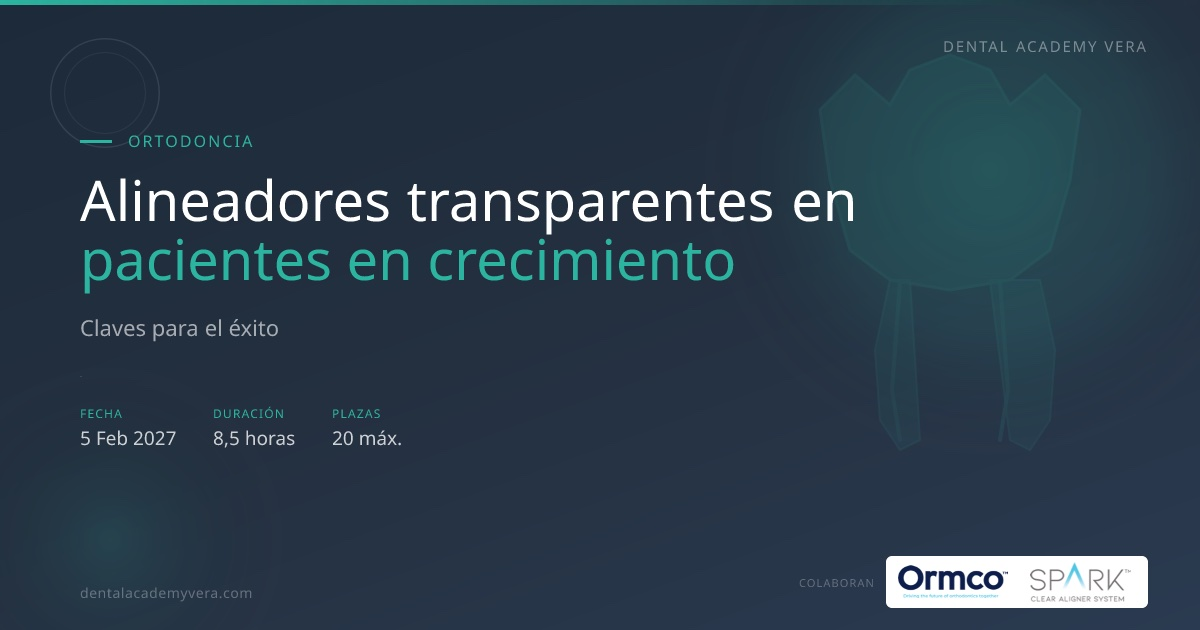
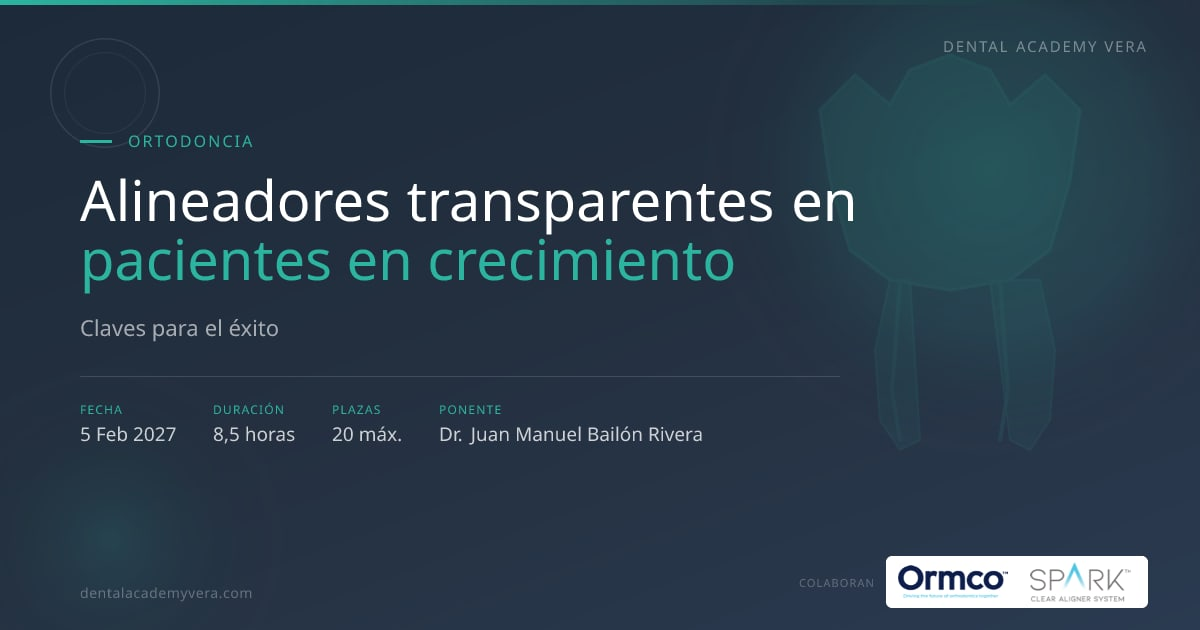
SEO review and share image fixes
- Single source for the canonical site URL (lib/site.ts); robots.txt
  now points to the www sitemap and never to Vercel deployment URLs.
- pageMetadata() helper so every page keeps og:image, site name,
  locale and its own Twitter title/description (/cursos and
  /profesores were missing them).
- Shorter, generated meta descriptions (<160 chars) for home and
  courses; drop "online" claim from home metadata.
- Course JSON-LD: image, inLanguage, endDate and courseWorkload.
- OG template: fix stray divider dot, "PRÁCTICA" accent, add speaker.
- New `npm run og` script to regenerate static JPG share images
  (<300 KB for WhatsApp); both course images regenerated.

diff --git a/app/cursos/[id]/page.tsx b/app/cursos/[id]/page.tsx
@@ -6,16 +6,48 @@ import {
   CalendarDays, Clock, MapPin, Users, MessageCircle, Phone,
   GraduationCap, ChevronRight, Check, Timer,
 } from 'lucide-react'
-import { courses, formatPrice, isPastCourse, getNextCourse } from '@/lib/data/courses'
-import type { Collaborator } from '@/types'
+import { courses, formatPrice, isPastCourse, getNextCourse, formatLongDate } from '@/lib/data/courses'
+import type { Collaborator, Course } from '@/types'
 import { professors } from '@/lib/data/professors'
 import { CONTACT, whatsappCourse } from '@/lib/contact'
 import Nav from '@/components/Nav'
 import Footer from '@/components/Footer'
 
-const SITE_URL =
-  process.env.NEXT_PUBLIC_SITE_URL ??
-  (process.env.VERCEL_URL ? `https://${process.env.VERCEL_URL}` : 'https://www.dentalacademyvera.com')
+import { SITE_URL, SITE_NAME, pageMetadata } from '@/lib/site'
+
+/** Recorta en la última palabra completa antes de `max` caracteres. */
+function clip(text: string, max = 158) {
+  if (text.length <= max) return text
+  return text.slice(0, text.lastIndexOf(' ', max - 1)).replace(/[,;:.]$/, '') + '…'
+}
+
+function courseDescription(course: Course) {
+  const professor = professors.find((p) => p.id === course.professorId)
+  const cat = course.categoryLabel.toLowerCase()
+  const when = isPastCourse(course)
+    ? `Edición celebrada del curso de ${cat} el ${formatLongDate(course)}`
+    : `Curso presencial de ${cat} el ${formatLongDate(course)}`
+  const who = professor ? ` con el ${professor.name}` : ''
+  const lead = `${when} en Vera (Almería)${who}.`
+  // Añade la frase extra más informativa que quepa entera; nunca a medias
+  const candidates = [
+    course.summary?.split(/(?<=[.?!])\s/)[0],
+    course.subtitle && `${course.subtitle}.`,
+  ].filter(Boolean) as string[]
+  const extra = candidates.find((c) => lead.length + 1 + c.length <= 158)
+  return clip(extra ? `${lead} ${extra}` : lead)
+}
+
+function isoWorkload(duration: string) {
+  const h = parseFloat(duration.replace(',', '.'))
+  if (!Number.isFinite(h)) return undefined
+  const mins = Math.round((h % 1) * 60)
+  return `PT${Math.floor(h)}H${mins ? `${mins}M` : ''}`
+}
+
+function courseOgImage(course: Course) {
+  return course.ogImage ?? `/cursos/${course.id}/opengraph-image`
+}
 
 type Props = { params: Promise<{ id: string }> }
 
@@ -30,32 +62,13 @@ export async function generateMetadata({ params }: Props): Promise<Metadata> {
   const course = courses.find((c) => c.id === id)
   if (!course) return {}
 
-  const professor = professors.find((p) => p.id === course.professorId)
-  const title = course.title
-  const description =
-    `Curso de ${course.categoryLabel} en ${course.location} (Vera, Almería). ${course.date}.` +
-    (professor ? ` Impartido por ${professor.name}.` : '') +
-    (course.summary ? ` ${course.summary.split('. ')[0]}.` : course.subtitle ? ` ${course.subtitle}.` : '')
-  const pageUrl = `${SITE_URL}/cursos/${id}`
-
-  return {
-    title,
-    description,
-    alternates: { canonical: pageUrl },
-    openGraph: {
-      title,
-      description,
-      url: pageUrl,
-      type: 'website',
-      images: [{ url: `${SITE_URL}${course.ogImage ?? `/cursos/${id}/opengraph-image`}`, width: 1200, height: 630, alt: `${title} — Dental Academy Vera` }],
-    },
-    twitter: {
-      card: 'summary_large_image',
-      title,
-      description,
-      images: [`${SITE_URL}${course.ogImage ?? `/cursos/${id}/opengraph-image`}`],
-    },
-  }
+  return pageMetadata({
+    title: course.title,
+    socialTitle: course.subtitle ? `${course.title}: ${course.subtitle.toLowerCase()}` : course.title,
+    description: courseDescription(course),
+    path: `/cursos/${id}`,
+    image: { url: courseOgImage(course), width: 1200, height: 630, alt: `${course.title} — ${SITE_NAME}` },
+  })
 }
 
 // ── Page ──────────────────────────────────────────────────────────────────────
@@ -82,11 +95,13 @@ export default async function CoursePage({ params }: Props) {
       course.subtitle ??
       `Curso de ${course.categoryLabel} en ${course.location}. ${course.date}. Formación presencial impartida por referentes del sector.`,
     url: courseUrl,
+    image: `${SITE_URL}${courseOgImage(course)}`,
+    inLanguage: 'es',
     educationalLevel: 'Professional',
     teaches: course.program?.flatMap((m) => m.topics) ?? course.objectives ?? [],
     provider: {
       '@type': 'EducationalOrganization',
-      name: 'Dental Academy Vera',
+      name: SITE_NAME,
       url: SITE_URL,
     },
     ...(course.price != null && !past && {
@@ -106,6 +121,9 @@ export default async function CoursePage({ params }: Props) {
       '@type': 'CourseInstance',
       courseMode: course.modality === 'online' ? 'online' : 'onsite',
       startDate: course.dateISO,
+      endDate: course.dateISO,
+      // Google exige courseWorkload (o courseSchedule) en CourseInstance: "8,5 horas" → PT8H30M
+      ...(isoWorkload(course.duration) && { courseWorkload: isoWorkload(course.duration) }),
       location: {
         '@type': 'Place',
         name: course.location,

diff --git a/app/cursos/[id]/opengraph-image.tsx b/app/cursos/[id]/opengraph-image.tsx
@@ -1,5 +1,6 @@
 import { ImageResponse } from 'next/og'
 import { courses, splitTitle } from '@/lib/data/courses'
+import { professors } from '@/lib/data/professors'
 
 export const runtime = 'edge'
 export const size = { width: 1200, height: 630 }
@@ -10,6 +11,7 @@ export default async function Image({ params }: { params: Promise<{ id: string }
   const course = courses.find((c) => c.id === id)
   if (!course) return new Response('Not found', { status: 404 })
   const [titleA, titleB] = splitTitle(course.title)
+  const professor = professors.find((p) => p.id === course.professorId)
   const logos = (course.collaborators ?? []).filter((c) => c.ogLogoB64)
 
   return new ImageResponse(
@@ -219,7 +221,7 @@ export default async function Image({ params }: { params: Promise<{ id: string }
                   display: 'flex',
                 }}
               >
-                INCLUYE PRACTICA
+                INCLUYE PRÁCTICA
               </div>
             )}
           </div>
@@ -257,23 +259,21 @@ export default async function Image({ params }: { params: Promise<{ id: string }
             </div>
           )}
 
-          {/* Divider */}
+          {/* Meta row (la línea superior hace de divisor) */}
           <div
             style={{
-              width: '400px',
-              height: '1px',
-              background: 'rgba(255,255,255,0.12)',
-              marginBottom: '28px',
               display: 'flex',
+              gap: '36px',
+              paddingTop: '24px',
+              borderTop: '1px solid rgba(255,255,255,0.14)',
+              maxWidth: '760px',
             }}
-          />
-
-          {/* Meta row */}
-          <div style={{ display: 'flex', gap: '36px' }}>
+          >
             {[
               { label: 'FECHA', value: course.date },
               { label: 'DURACIÓN', value: course.duration },
               { label: 'PLAZAS', value: `${course.spots} máx.` },
+              ...(professor ? [{ label: 'PONENTE', value: professor.name }] : []),
             ].map(({ label, value }) => (
               <div key={label} style={{ display: 'flex', flexDirection: 'column', gap: '4px' }}>
                 <span style={{ color: '#2BB5A0', fontSize: '12px', fontWeight: 700, letterSpacing: '0.1em', display: 'flex' }}>

diff --git a/app/layout.tsx b/app/layout.tsx
@@ -23,10 +23,7 @@ const outfit = Outfit({
   display: 'swap',
 })
 
-const SITE_URL =
-  process.env.NEXT_PUBLIC_SITE_URL ??
-  (process.env.VERCEL_URL ? `https://${process.env.VERCEL_URL}` : 'https://www.dentalacademyvera.com')
-const SITE_NAME = 'Dental Academy Vera'
+import { SITE_URL, SITE_NAME, DEFAULT_OG_IMAGE } from '@/lib/site'
 
 export const metadata: Metadata = {
   metadataBase: new URL(SITE_URL),
@@ -42,7 +39,7 @@ export const metadata: Metadata = {
     template: `%s — ${SITE_NAME}`,
   },
   description:
-    'Formación dental de excelencia en Vera, Almería. Cursos presenciales y online impartidos por profesionales referentes del sector. Endodoncia, ortodoncia con alineadores, estética y más.',
+    'Cursos presenciales para dentistas en Vera (Almería): endodoncia, ortodoncia con alineadores y más, en grupos reducidos y con ponentes de referencia.',
   keywords: [
     'formación dental Vera Almería',
     'cursos odontología',
@@ -66,13 +63,13 @@ export const metadata: Metadata = {
     siteName: SITE_NAME,
     title: `${SITE_NAME} — Formación dental de excelencia`,
     description:
-      'Cursos presenciales y online para dentistas e higienistas. Vera, Almería.',
-    images: [{ url: '/og-image.jpg', width: 1200, height: 630, alt: `${SITE_NAME} — Formación dental de excelencia en Vera, Almería` }],
+      'Cursos presenciales para dentistas en Vera (Almería), en grupos reducidos y con ponentes de referencia.',
+    images: [{ ...DEFAULT_OG_IMAGE, type: 'image/jpeg' }],
   },
   twitter: {
     card: 'summary_large_image',
     title: `${SITE_NAME} — Formación dental de excelencia`,
-    description: 'Cursos presenciales y online para dentistas e higienistas. Vera, Almería.',
+    description: 'Cursos presenciales para dentistas en Vera (Almería), en grupos reducidos y con ponentes de referencia.',
     images: ['/og-image.jpg'],
   },
   alternates: { canonical: SITE_URL },
@@ -107,7 +104,6 @@ const organizationJsonLd = {
     geoMidpoint: { '@type': 'GeoCoordinates', latitude: 37.2497, longitude: -1.8605 },
     geoRadius: '150000',
   },
-  sameAs: [SITE_URL],
 }
 
 export default function RootLayout({ children }: { children: React.ReactNode }) {

diff --git a/lib/site.ts b/lib/site.ts
@@ -1,5 +1,56 @@
-export const SITE_URL =
-  process.env.NEXT_PUBLIC_SITE_URL ??
-  (process.env.VERCEL_URL ? `https://${process.env.VERCEL_URL}` : 'https://www.dentalacademyvera.com')
+import type { Metadata } from 'next'
+
+// Dominio canónico. En producción lo fija NEXT_PUBLIC_SITE_URL; sin ella se usa
+// siempre el dominio real (nunca la URL temporal de cada despliegue de Vercel).
+export const SITE_URL = (process.env.NEXT_PUBLIC_SITE_URL ?? 'https://www.dentalacademyvera.com').replace(/\/$/, '')
 
 export const SITE_NAME = 'Dental Academy Vera'
+
+export const DEFAULT_OG_IMAGE = {
+  url: '/og-image.jpg',
+  width: 1200,
+  height: 630,
+  alt: `${SITE_NAME} — Formación dental en Vera, Almería`,
+}
+
+/**
+ * Metadatos completos de una página (canonical + Open Graph + Twitter).
+ * Next sustituye el objeto openGraph del layout entero en cada página, así que
+ * hay que repetir siteName, locale e imagen aquí para no perderlos.
+ */
+export function pageMetadata({
+  title,
+  description,
+  path,
+  image = DEFAULT_OG_IMAGE,
+  socialTitle,
+}: {
+  title: string
+  description: string
+  path: string
+  image?: { url: string; width: number; height: number; alt: string }
+  socialTitle?: string
+}): Metadata {
+  const url = `${SITE_URL}${path}`
+  const ogTitle = socialTitle ?? `${title} — ${SITE_NAME}`
+  return {
+    title,
+    description,
+    alternates: { canonical: url },
+    openGraph: {
+      type: 'website',
+      locale: 'es_ES',
+      siteName: SITE_NAME,
+      url,
+      title: ogTitle,
+      description,
+      images: [{ ...image, type: image.url.endsWith('.png') ? 'image/png' : 'image/jpeg' }],
+    },
+    twitter: {
+      card: 'summary_large_image',
+      title: ogTitle,
+      description,
+      images: [image.url],
+    },
+  }
+}

diff --git a/app/profesores/page.tsx b/app/profesores/page.tsx
@@ -9,22 +9,16 @@ import Footer from '@/components/Footer'
 import AnimateOnScroll from '@/components/AnimateOnScroll'
 import { professors } from '@/lib/data/professors'
 import { getCoursesByProfessor, isPastCourse, formatShortDate } from '@/lib/data/courses'
-import { SITE_URL, SITE_NAME } from '@/lib/site'
+import { SITE_URL, pageMetadata } from '@/lib/site'
 
 const DESCRIPTION =
-  'Profesorado de Dental Academy Vera: ponentes en endodoncia, ortodoncia con alineadores y otras áreas, con su formación, trayectoria y los cursos que han impartido en Vera.'
+  'Ponentes de Dental Academy Vera en endodoncia y ortodoncia con alineadores: formación, trayectoria y cursos que han impartido en Vera (Almería).'
 
-export const metadata: Metadata = {
+export const metadata: Metadata = pageMetadata({
   title: 'Profesorado',
   description: DESCRIPTION,
-  alternates: { canonical: `${SITE_URL}/profesores` },
-  openGraph: {
-    title: `Profesorado — ${SITE_NAME}`,
-    description: DESCRIPTION,
-    url: `${SITE_URL}/profesores`,
-    type: 'website',
-  },
-}
+  path: '/profesores',
+})
 
 export default function ProfessorsPage() {
   // Primero quien tiene un curso próximo; después, por su curso más reciente

diff --git a/app/cursos/page.tsx b/app/cursos/page.tsx
@@ -15,23 +15,18 @@ import {
   formatPrice,
 } from '@/lib/data/courses'
 import { whatsappCourse, CONTACT } from '@/lib/contact'
-import { SITE_URL, SITE_NAME } from '@/lib/site'
+import { SITE_URL, SITE_NAME, pageMetadata } from '@/lib/site'
 import type { Course } from '@/types'
 
 const DESCRIPTION =
-  'Próximos cursos y archivo de ediciones celebradas en Dental Academy Vera (Almería): endodoncia, ortodoncia con alineadores y más, impartidos por referentes de cada especialidad.'
+  'Próximos cursos para dentistas en Vera (Almería) y archivo de ediciones celebradas: endodoncia, ortodoncia con alineadores y más, en grupos reducidos.'
 
-export const metadata: Metadata = {
-  title: 'Cursos',
+export const metadata: Metadata = pageMetadata({
+  title: 'Cursos de odontología en Vera (Almería)',
+  socialTitle: `Cursos — ${SITE_NAME}`,
   description: DESCRIPTION,
-  alternates: { canonical: `${SITE_URL}/cursos` },
-  openGraph: {
-    title: `Cursos — ${SITE_NAME}`,
-    description: DESCRIPTION,
-    url: `${SITE_URL}/cursos`,
-    type: 'website',
-  },
-}
+  path: '/cursos',
+})
 
 const MONTH = (c: Course) =>
   c.dateISO

diff --git a/app/robots.ts b/app/robots.ts
@@ -1,12 +1,11 @@
 import type { MetadataRoute } from 'next'
 
-const BASE =
-  process.env.NEXT_PUBLIC_SITE_URL ??
-  (process.env.VERCEL_URL ? `https://${process.env.VERCEL_URL}` : 'https://dentalacademyvera.com')
+import { SITE_URL as BASE } from '@/lib/site'
 
 export default function robots(): MetadataRoute.Robots {
   return {
     rules: { userAgent: '*', allow: '/' },
     sitemap: `${BASE}/sitemap.xml`,
+    host: BASE,
   }
 }
